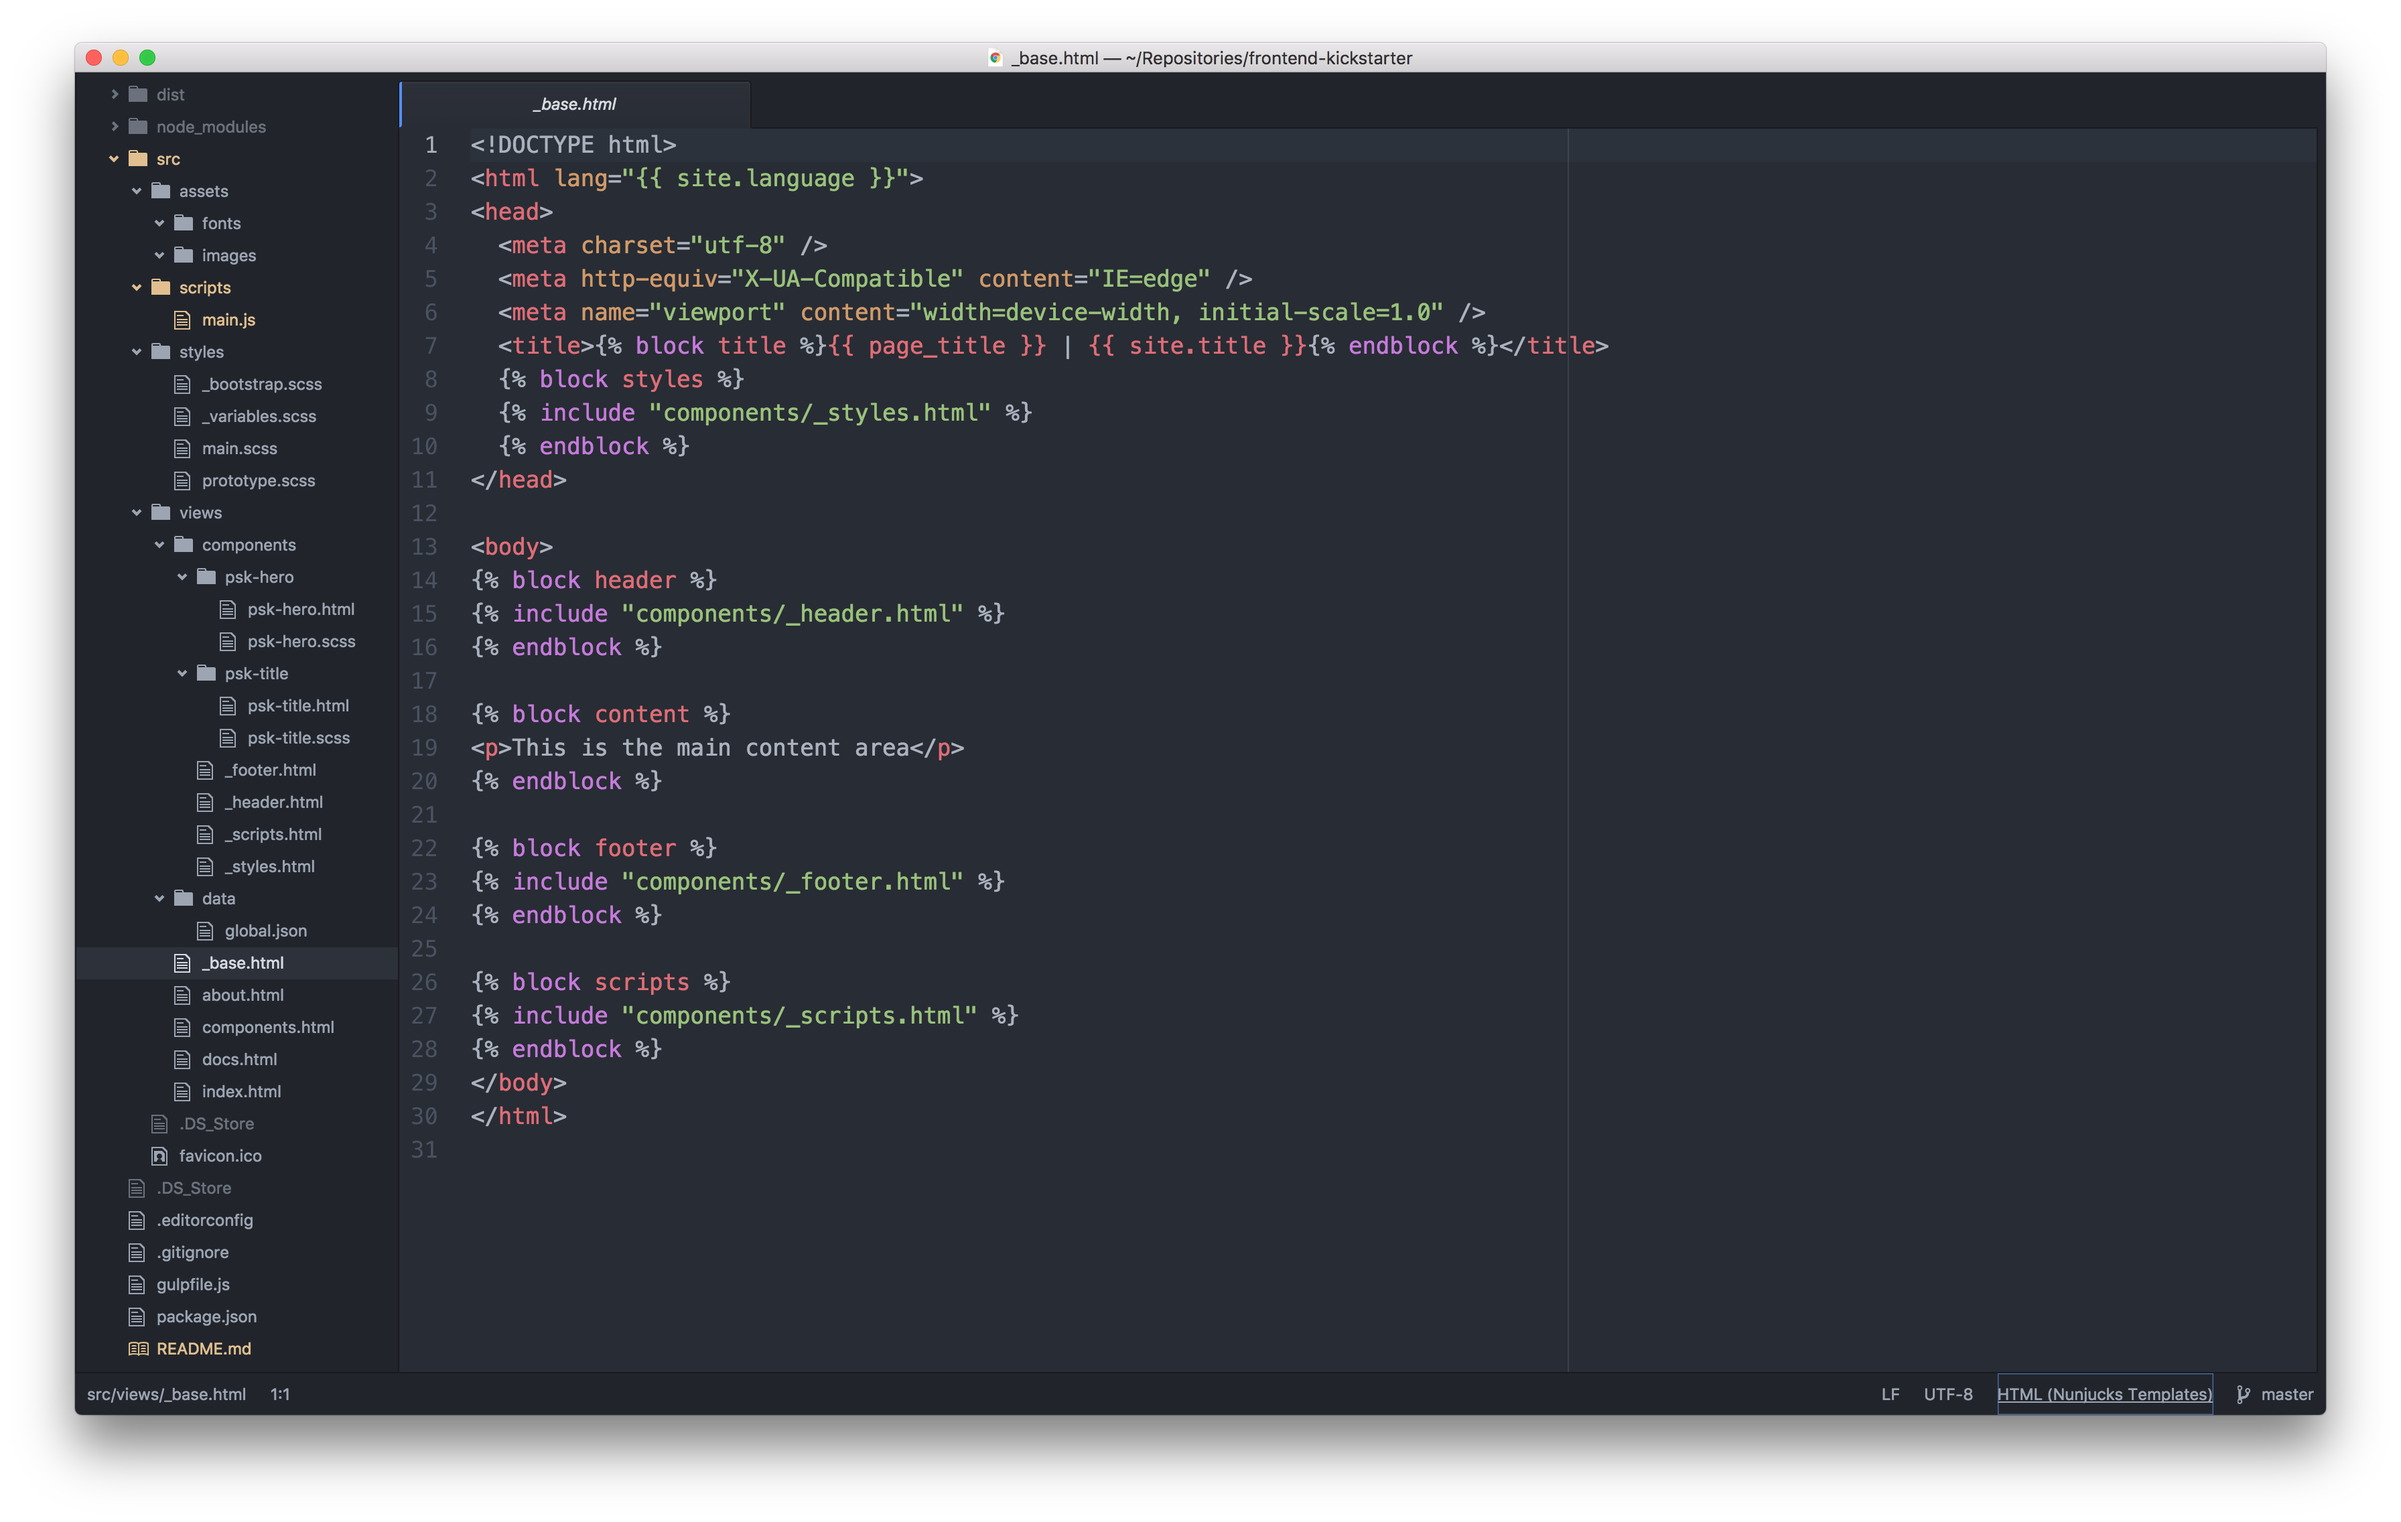
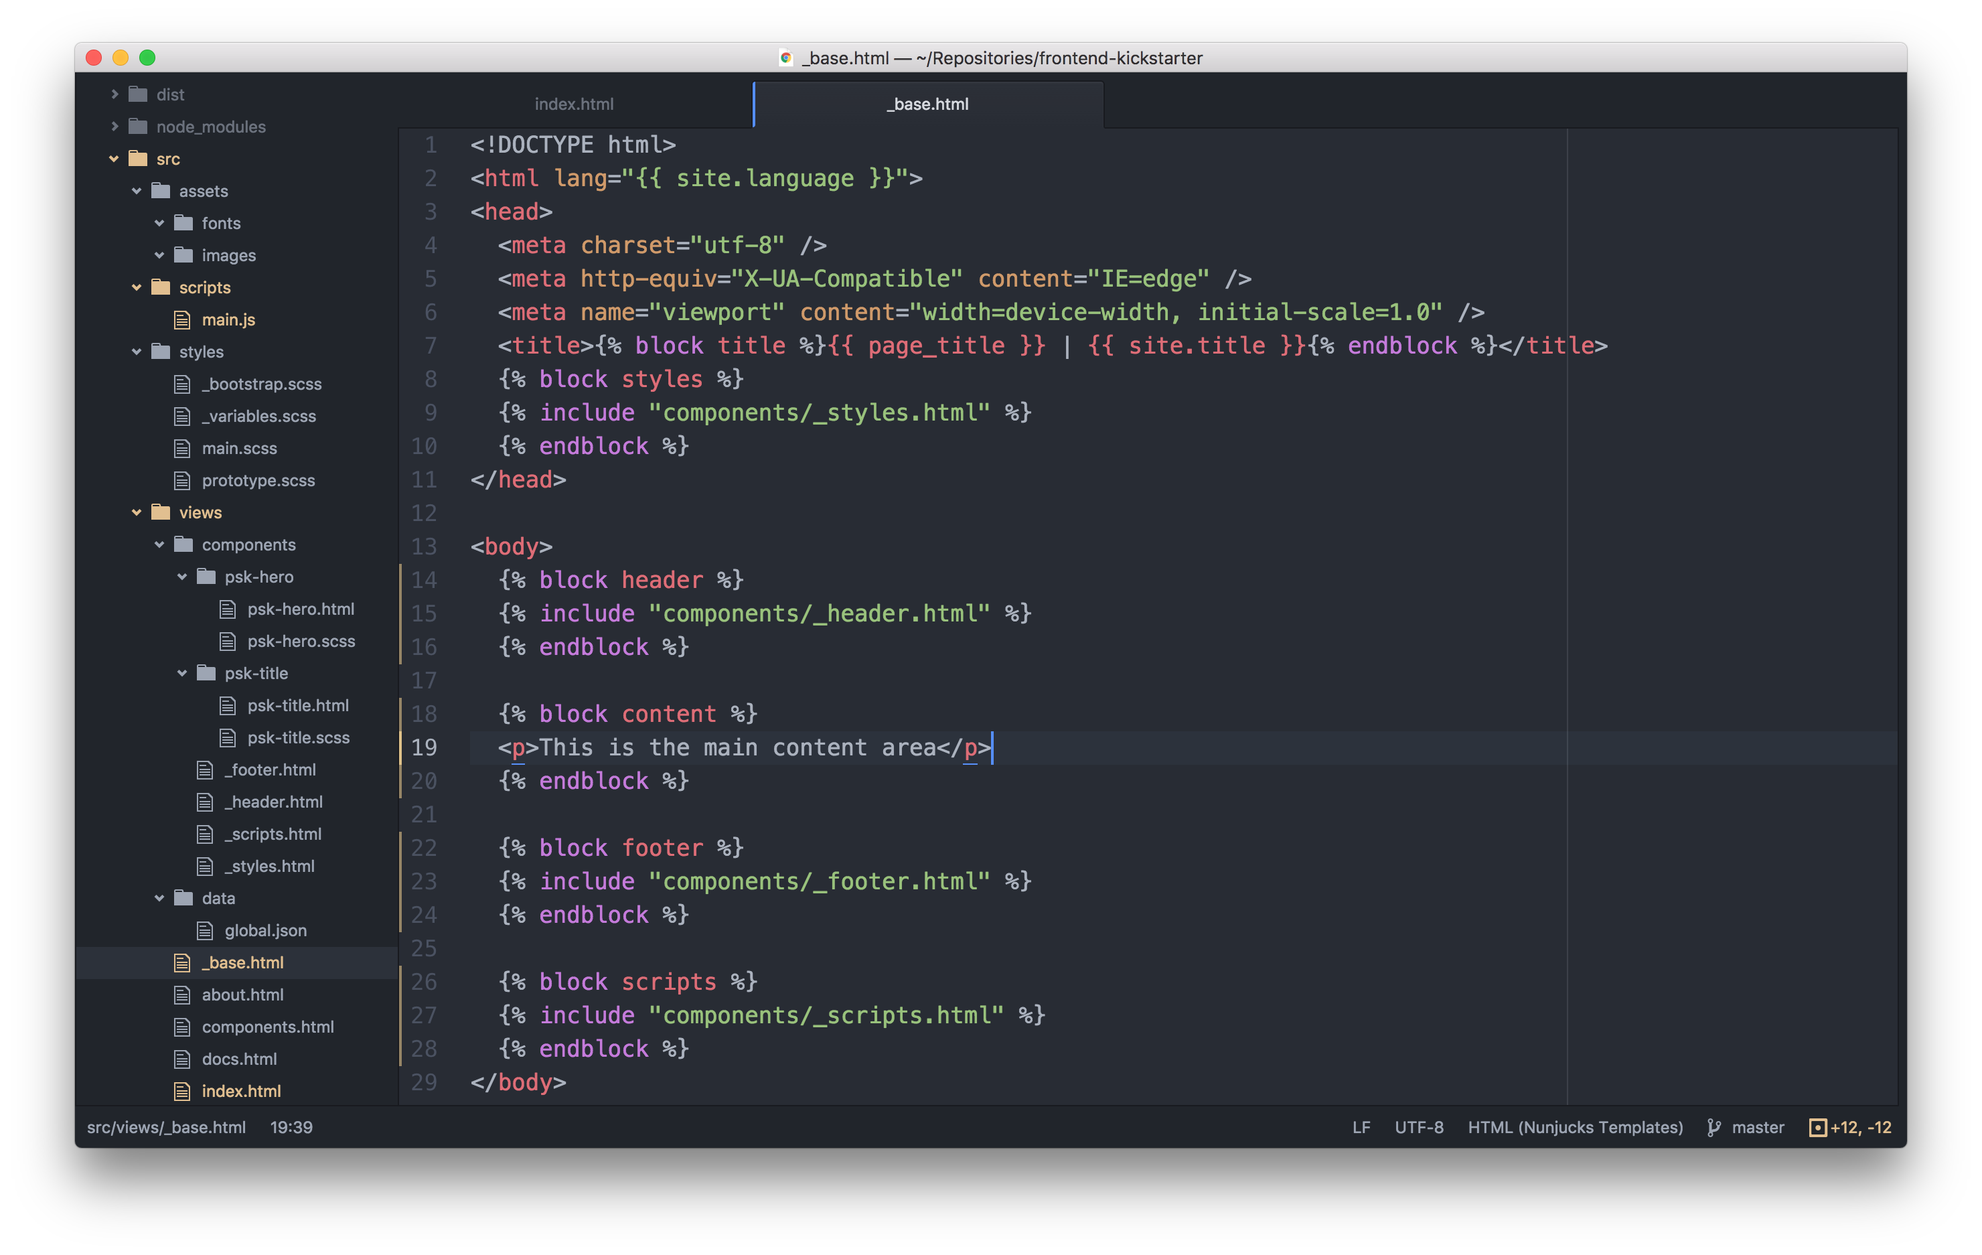
Update screenshots

Changed region(s): [[0.0311, 0.0309, 0.9946, 0.9594], [0.2486, 0.7737, 0.4973, 0.8666], [0.1865, 0.7737, 0.2176, 0.8047]]

diff --git a/src/views/index.html b/src/views/index.html
@@ -15,7 +15,7 @@
         </div>
         <div class="panel-body">
           <p>Gulp is a JavaScript task-runner that lets you automate tasks such as bundling and minifying libraries and stylesheets.</p>
-          <a class="btn btn-default" href="http://gulpjs.com" target="_blank">http://gulpjs.com</a>
+          <a href="http://gulpjs.com" target="_blank">http://gulpjs.com</a>
         </div>
       </div>
     </div>
@@ -27,7 +27,7 @@
         </div>
         <div class="panel-body">
           <p>Bootstrap is the most popular HTML, CSS, and JS framework in the world for building responsive, mobile-first projects on the web.</p>
-          <a class="btn btn-default" href="http://getbootstrap.com" target="_blank">http://getbootstrap.com</a>
+          <a href="http://getbootstrap.com" target="_blank">http://getbootstrap.com</a>
         </div>
       </div>
     </div>
@@ -39,7 +39,7 @@
         </div>
         <div class="panel-body">
           <p>Nunjucks is a rich and powerful template engine with block inheritance, autoescaping, macros, asynchronous control, and more.</p>
-          <a class="btn btn-default" href="https://mozilla.github.io/nunjucks" target="_blank">https://mozilla.github.io/nunjucks</a>
+          <a href="https://mozilla.github.io/nunjucks" target="_blank">https://mozilla.github.io/nunjucks</a>
         </div>
       </div>
     </div>

diff --git a/src/views/_base.html b/src/views/_base.html
@@ -11,20 +11,20 @@
 </head>
 
 <body>
-{% block header %}
-{% include "components/_header.html" %}
-{% endblock %}
+  {% block header %}
+  {% include "components/_header.html" %}
+  {% endblock %}
 
-{% block content %}
-<p>This is the main content area</p>
-{% endblock %}
+  {% block content %}
+  <p>This is the main content area</p>
+  {% endblock %}
 
-{% block footer %}
-{% include "components/_footer.html" %}
-{% endblock %}
+  {% block footer %}
+  {% include "components/_footer.html" %}
+  {% endblock %}
 
-{% block scripts %}
-{% include "components/_scripts.html" %}
-{% endblock %}
+  {% block scripts %}
+  {% include "components/_scripts.html" %}
+  {% endblock %}
 </body>
 </html>
